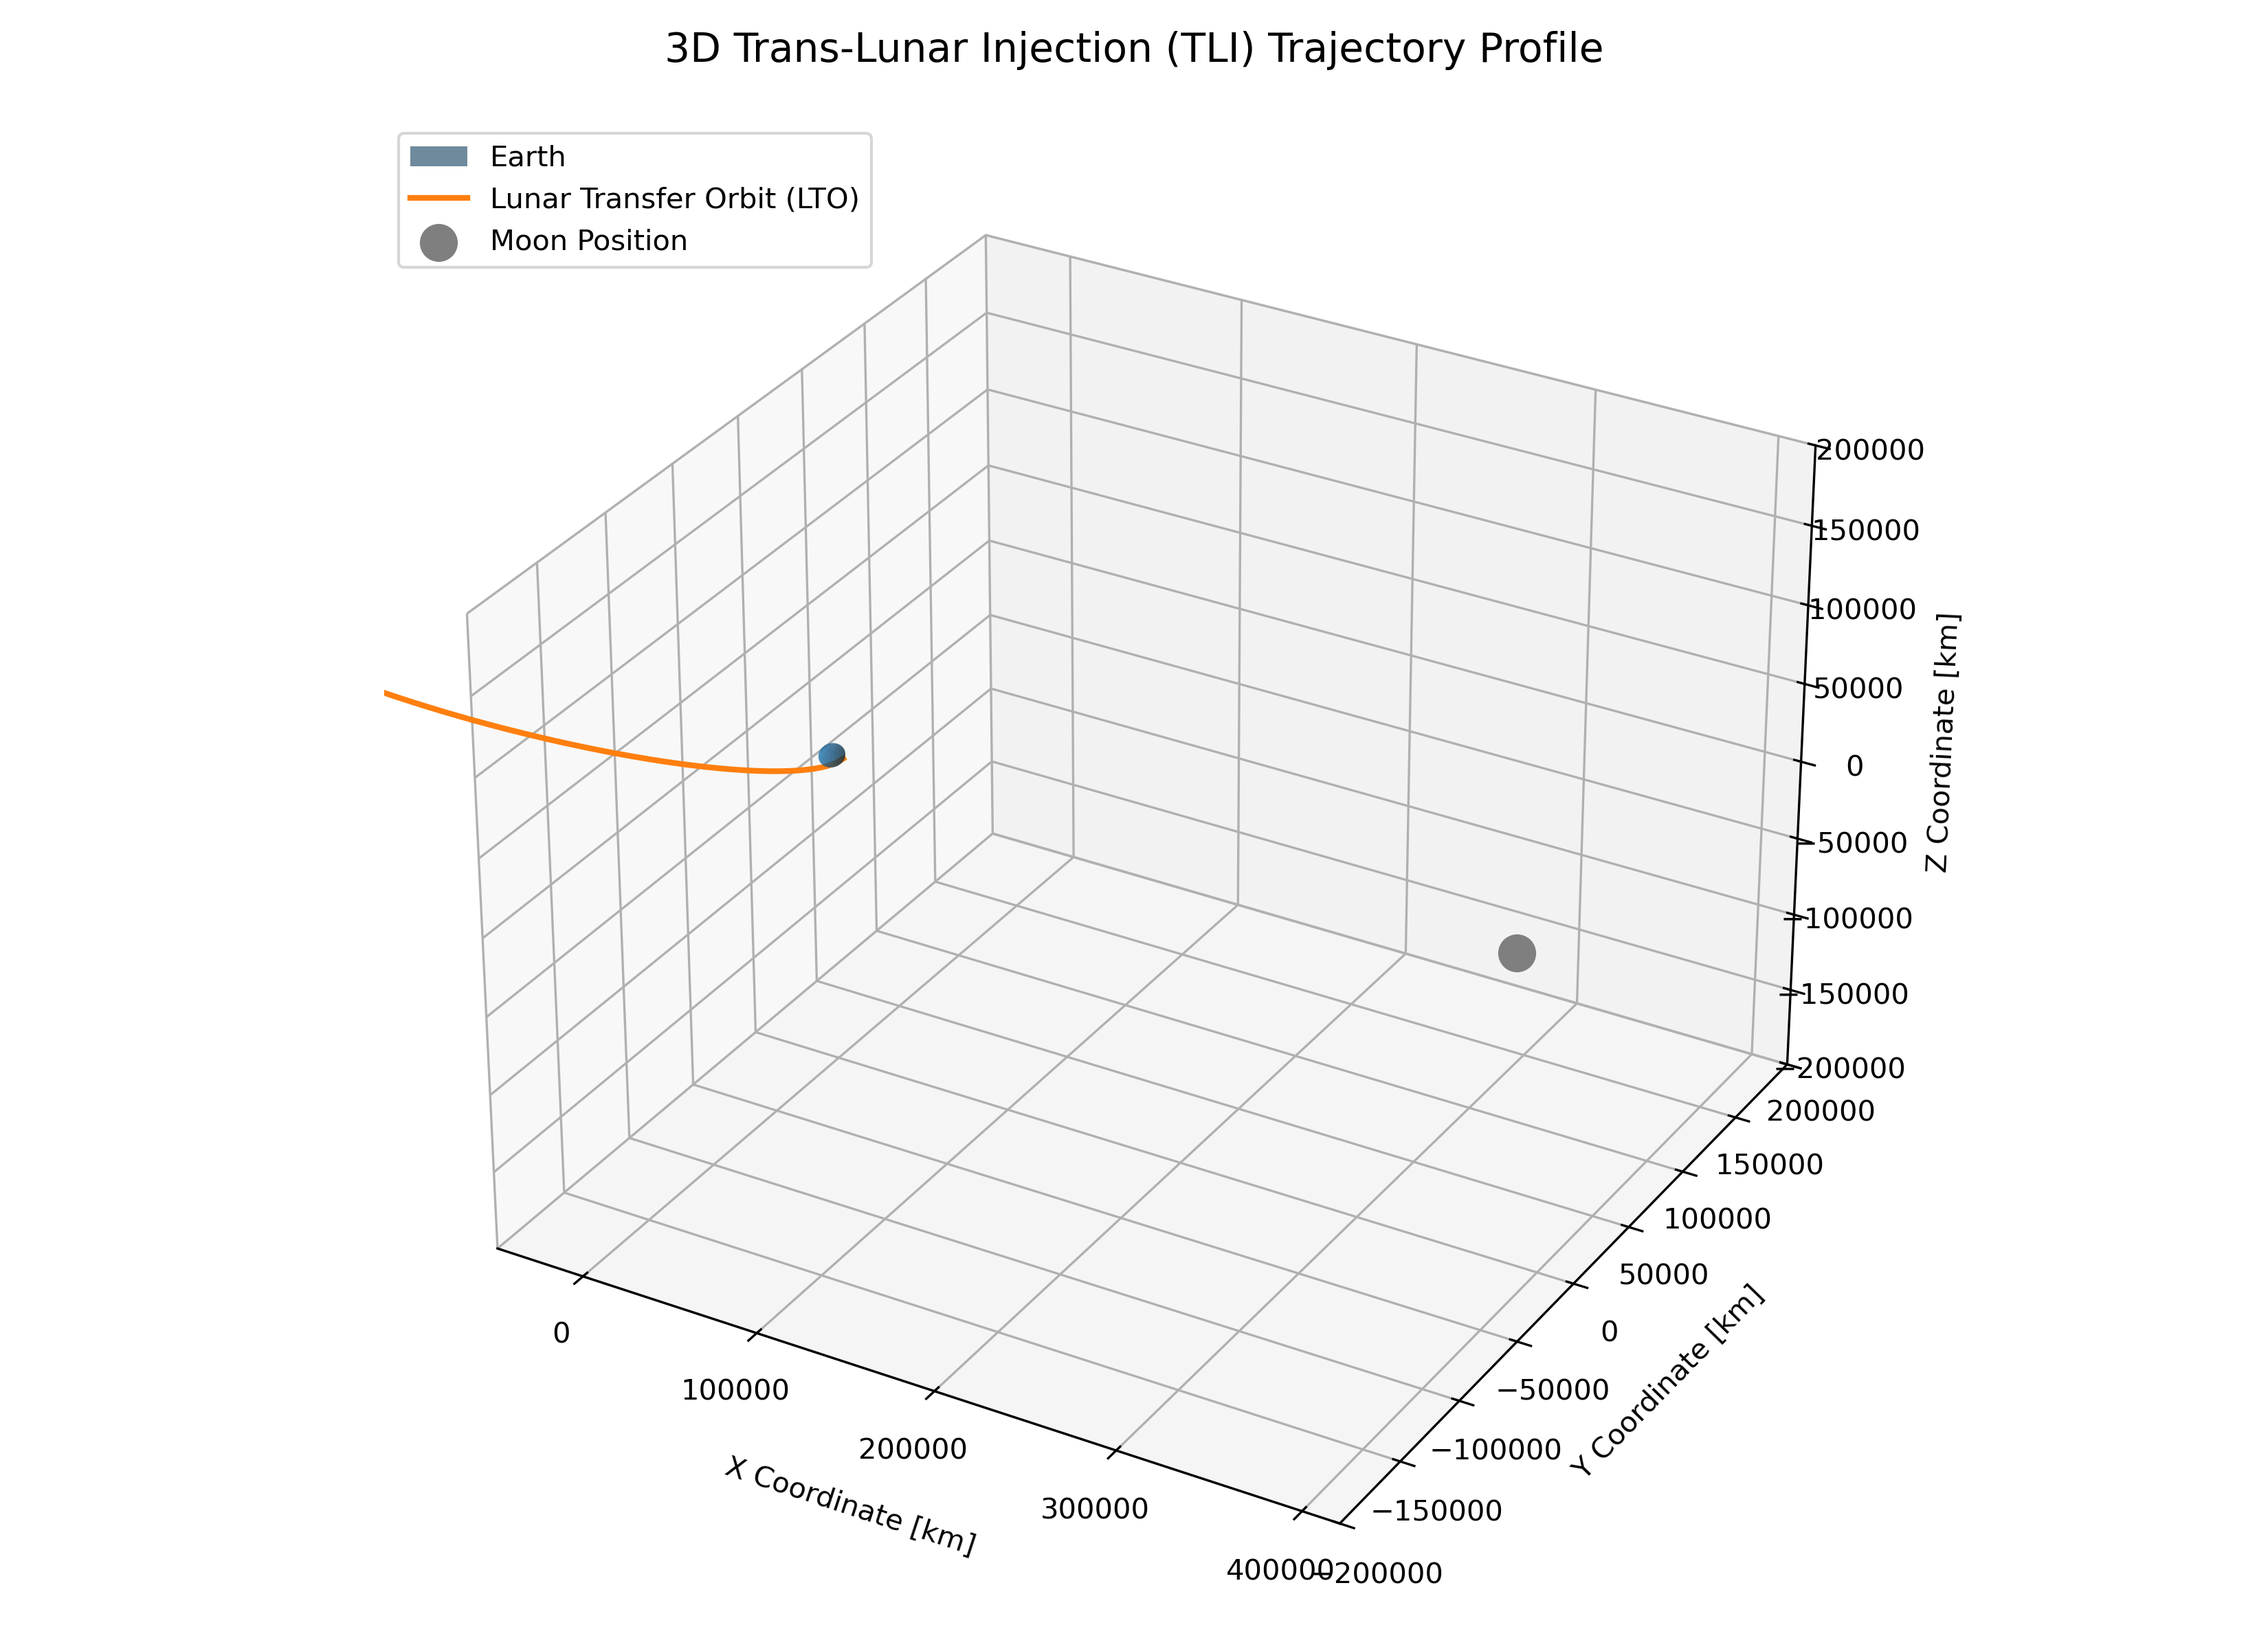
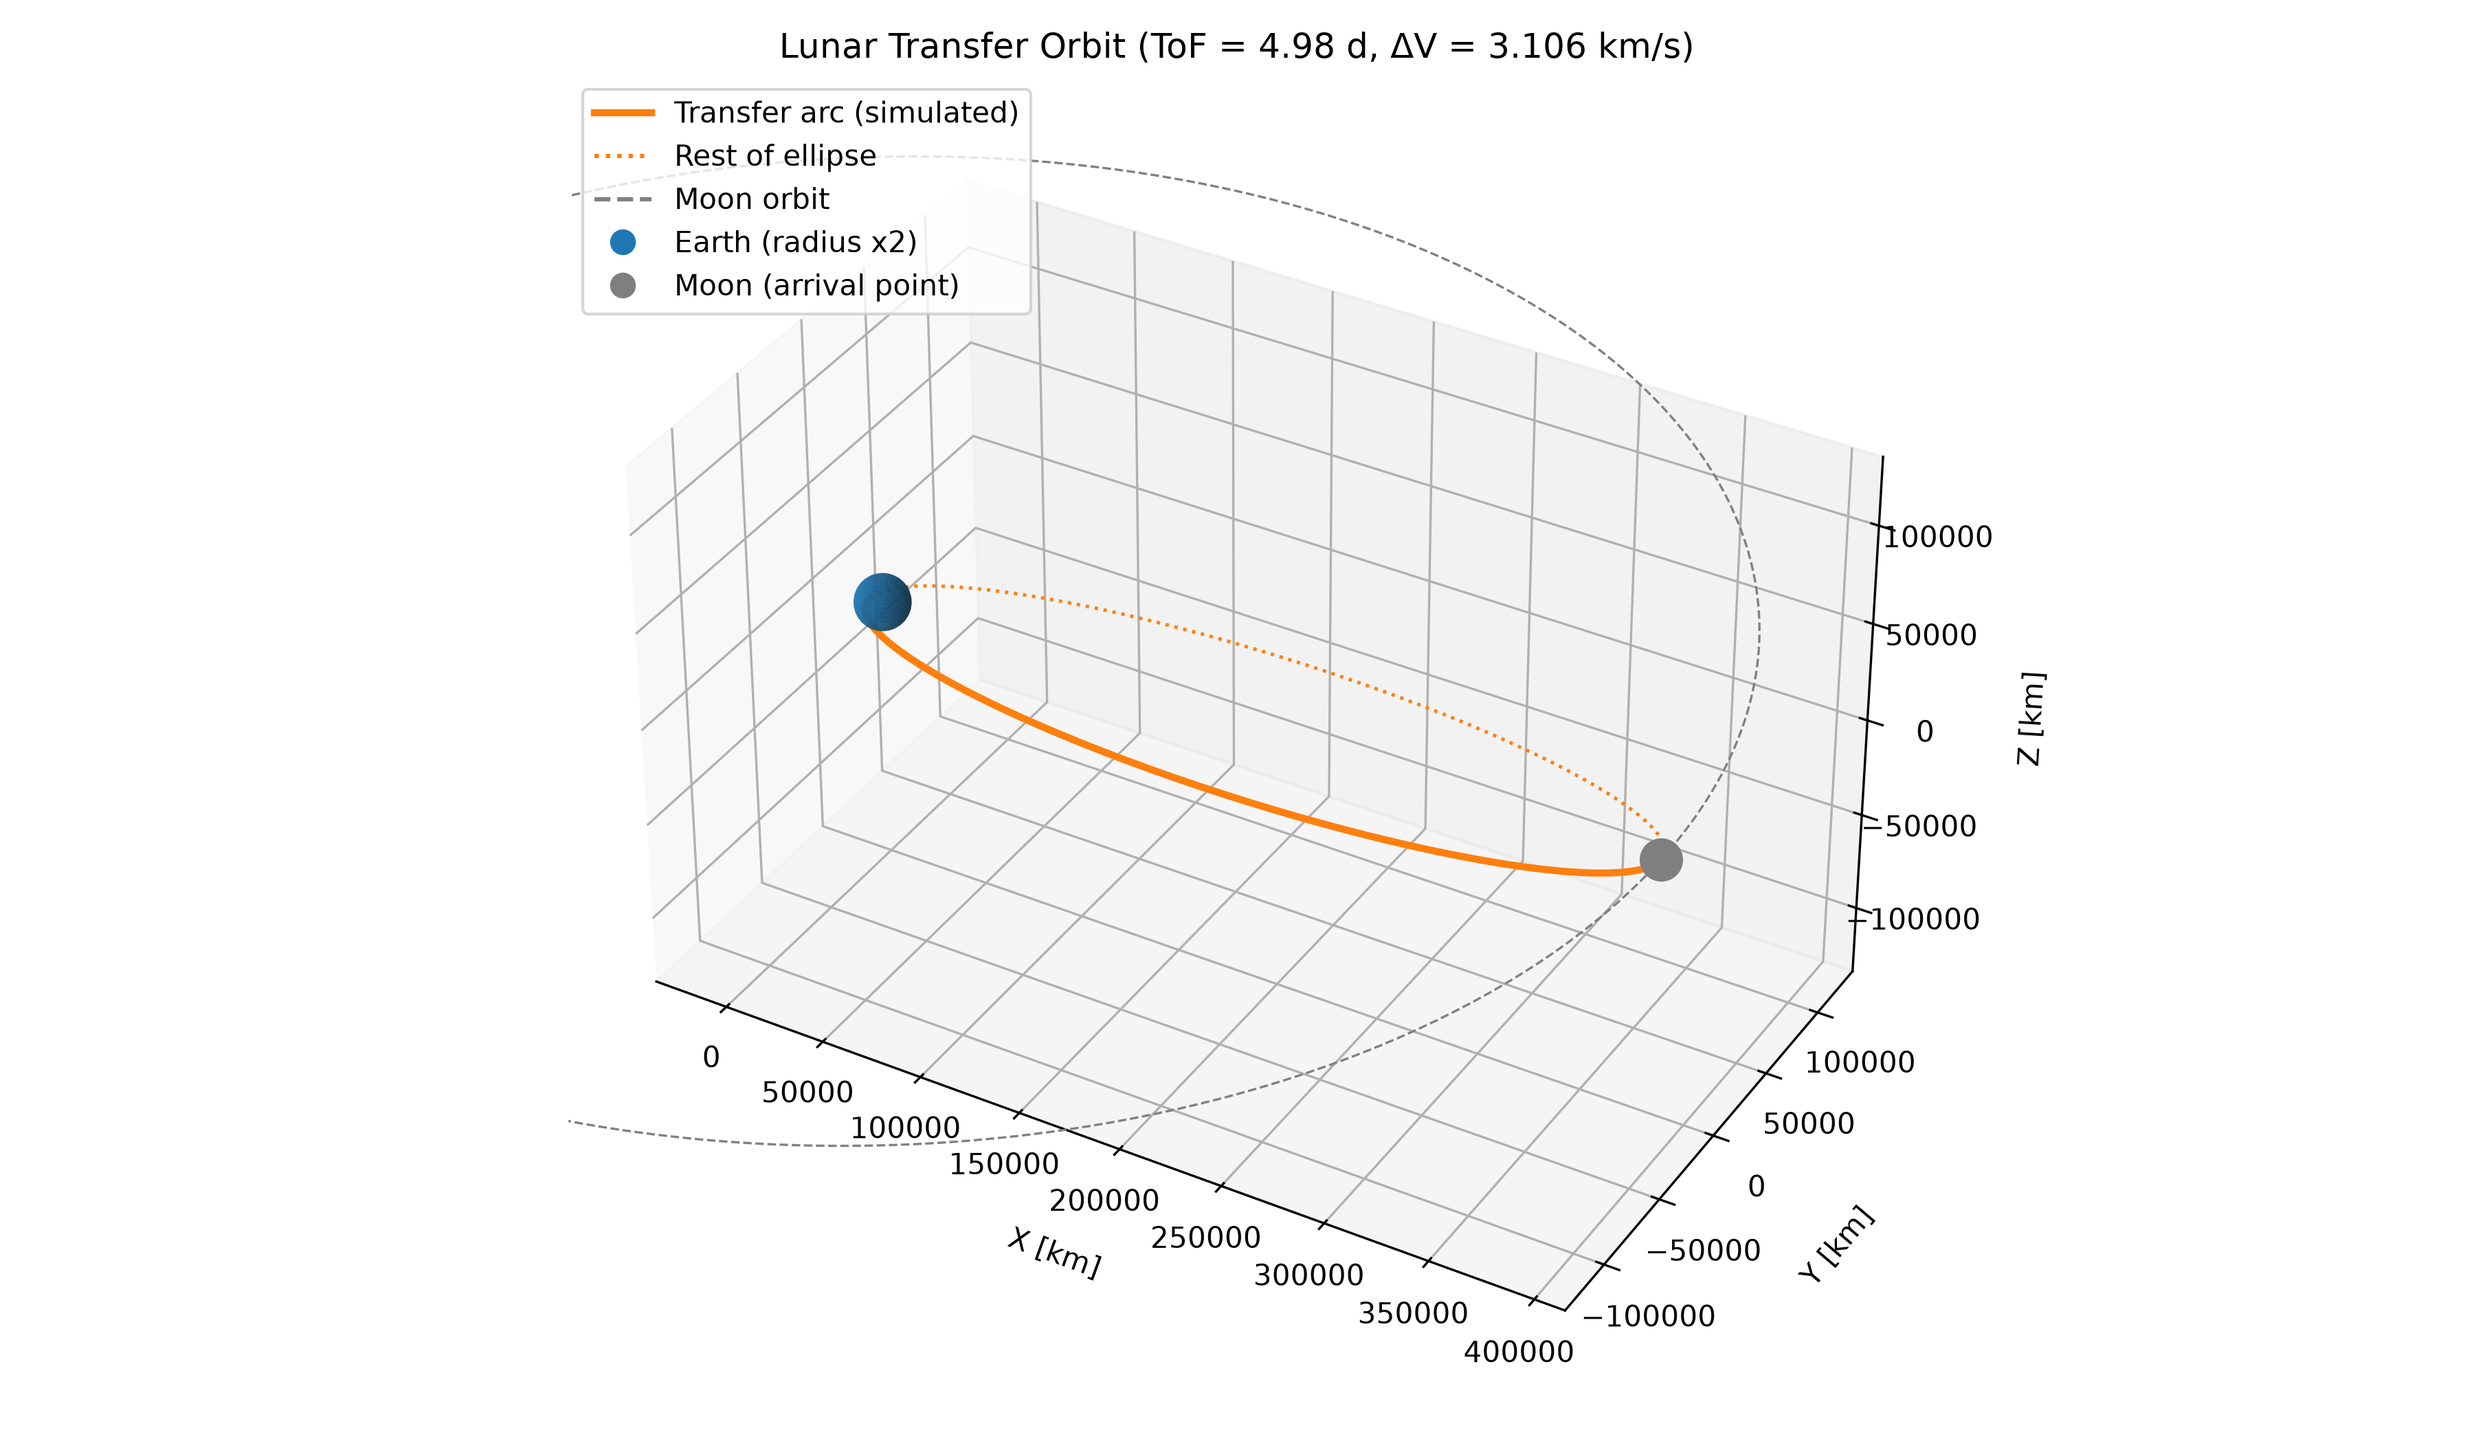
..

diff --git a/src/Orbit analysis/Lunar_transfer/plot_lto.py b/src/Orbit analysis/Lunar_transfer/plot_lto.py
@@ -1,60 +1,75 @@
 import numpy as np
 import matplotlib.pyplot as plt
-from mpl_toolkits.mplot3d import Axes3D
-from lto_calculator import propagate_lto
+from matplotlib.lines import Line2D
+from lto_calculator import propagate_lto, R_EARTH, R_MOON
 
 
-def plot_lunar_transfer_3d():
-    print("Generating 3D Lunar Transfer Orbit (LTO) visualization...")
+def plot_lunar_transfer_3d(h_park=300.0, earth_scale=4.0, full_ellipse=True):
+    sol, params = propagate_lto(h_park_km=h_park, num_points=5000)
+    x, y, z = sol.y[:3]
+    print(f"End position [km]: {sol.y[:3, -1]}")  # expect x ~ +384,400, y ~ 0
 
-    h_park = 300.0
-    sol, params = propagate_lto(h_park_km=h_park, num_points=1000)
+    r_p, r_a = params["r_park_km"], R_MOON
+    a = params["a_trans_km"]
+    e = (r_a - r_p) / (r_a + r_p)
+    b = a * np.sqrt(1 - e**2)
 
-    r_earth = 6378.137
-    r_moon = 384400.0
+    fig = plt.figure(figsize=(12, 7))
+    ax = fig.add_subplot(111, projection="3d")
 
-    fig = plt.figure(figsize=(11, 8))
-    ax = fig.add_subplot(111, projection='3d')
+    # Earth
+    r_draw = R_EARTH * earth_scale
+    u, v = np.mgrid[0:2 * np.pi:40j, 0:np.pi:20j]
+    ax.plot_surface(r_draw * np.cos(u) * np.sin(v),
+                    r_draw * np.sin(u) * np.sin(v),
+                    r_draw * np.cos(v), color="#1f77b4", alpha=0.8, linewidth=0)
 
-    # 1. Plot Earth at origin (using a wireframe sphere for 3D depth)
-    u = np.linspace(0, 2 * np.pi, 30)
-    v = np.linspace(0, np.pi, 30)
-    x_earth = r_earth * np.outer(np.cos(u), np.sin(v))
-    y_earth = r_earth * np.outer(np.sin(u), np.sin(v))
-    z_earth = r_earth * np.outer(np.ones(np.size(u)), np.cos(v))
-    ax.plot_surface(x_earth, y_earth, z_earth, color='#1f77b4', alpha=0.6, label='Earth')
+    # Moon's orbit (reference circle)
+    th = np.linspace(0, 2 * np.pi, 400)
+    ax.plot(R_MOON * np.cos(th), R_MOON * np.sin(th), 0 * th,
+            "--", color="gray", lw=0.8)
 
-    # 2. Extract trajectory coordinates
-    x = sol.y[0]
-    y = sol.y[1]
-    z = sol.y[2]
+    # Full ellipse (dashed) so the whole orbit shape is visible
+    if full_ellipse:
+        t = np.linspace(0, 2 * np.pi, 600)
+        c = a - r_p  # ellipse centre on the X axis
+        ax.plot(c + a * np.cos(t), b * np.sin(t), 0 * t,
+                ":", color="#ff7f0e", lw=1.2)
 
-    # Plot Transfer Trajectory
-    ax.plot(x, y, z, color='#ff7f0e', linewidth=2.0, label='Lunar Transfer Orbit (LTO)')
+    # Simulated transfer arc and Moon at arrival
+    ax.plot(x, y, z, color="#ff7f0e", lw=2.5)
+    ax.scatter(x[-1], y[-1], z[-1], color="#7f7f7f", s=200, depthshade=False)
 
-    # 3. Plot Moon position at apogee intercept
-    ax.scatter([r_moon], [0.0], [0.0], color='#7f7f7f', s=150, zorder=5, label='Moon Position')
+    # Limits from the data, with equal scaling on all axes
+    pad = 30_000
+    xlim = (-r_p - pad, r_a + pad)
+    ylim = (-R_MOON * 0.35, R_MOON * 0.35)
+    zlim = ylim
+    ax.set_xlim(*xlim); ax.set_ylim(*ylim); ax.set_zlim(*zlim)
+    ax.set_box_aspect([np.ptp(xlim), np.ptp(ylim), np.ptp(zlim)])
+    ax.view_init(elev=35, azim=-60)
 
-    # 4. Axis formatting and labels
-    ax.set_xlabel("X Coordinate [km]", labelpad=10)
-    ax.set_ylabel("Y Coordinate [km]", labelpad=10)
-    ax.set_zlabel("Z Coordinate [km]", labelpad=10)
-    ax.set_title("3D Trans-Lunar Injection (TLI) Trajectory Profile", fontsize=14, pad=20)
+    ax.set_xlabel("X [km]", labelpad=12)
+    ax.set_ylabel("Y [km]", labelpad=12)
+    ax.set_zlabel("Z [km]", labelpad=12)
+    ax.set_title(f"Lunar Transfer Orbit (ToF = {params['tof_days']:.2f} d, "
+                 f"ΔV = {params['delta_v_tli_km_s']:.3f} km/s)")
 
-    # Set symmetric window bounds for proper spatial proportions
-    ax.set_xlim([-50000, 420000])
-    ax.set_ylim([-200000, 200000])
-    ax.set_zlim([-200000, 200000])
+    ax.legend(handles=[
+        Line2D([0], [0], color="#ff7f0e", lw=2.5, label="Transfer arc (simulated)"),
+        Line2D([0], [0], color="#ff7f0e", ls=":", label="Rest of ellipse"),
+        Line2D([0], [0], color="gray", ls="--", label="Moon orbit"),
+        Line2D([0], [0], marker="o", color="w", markerfacecolor="#1f77b4",
+               markersize=10, label=f"Earth (radius x{earth_scale:g})"),
+        Line2D([0], [0], marker="o", color="w", markerfacecolor="#7f7f7f",
+               markersize=10, label="Moon (arrival point)"),
+    ], loc="upper left")
 
-    ax.legend(loc='upper left', frameon=True)
     plt.tight_layout()
-
-    output_filename = 'lto_trajectory_3d_plot.png'
-    plt.savefig(output_filename, dpi=300)
-    print(f"3D Lunar transfer plot saved successfully as '{output_filename}'!")
-
+    plt.savefig("lto_trajectory_3d_plot.png", dpi=300)
     plt.show()
 
 
 if __name__ == "__main__":
-    plot_lunar_transfer_3d()
+    plot_lunar_transfer_3d(earth_scale=2.0)
+

diff --git a/src/Orbit analysis/Lunar_transfer/lto_calculator.py b/src/Orbit analysis/Lunar_transfer/lto_calculator.py
@@ -74,7 +74,7 @@ def propagate_lto(h_park_km=300.0, num_points=1000):
 
     # Initial state vector at perigee: start on +X, velocity pointing along -Y
     # so the ellipse sweeps across the positive X domain toward the Moon at +384,400 km
-    r0 = np.array([r_park, 0.0, 0.0])
+    r0 = np.array([-r_park, 0.0, 0.0])
     v0 = np.array([0.0, -v_perigee, 0.0])
     initial_state = np.concatenate((r0, v0))
 

diff --git a/src/Basic concepts/constellations/test_geometry.py b/src/Basic concepts/constellations/test_geometry.py
@@ -1,11 +1,10 @@
 import numpy as np
-import numpy as np
 import sys
 import os
 
 # Add the project root 'src' directory to the Python path dynamically
 current_dir = os.path.dirname(os.path.abspath(__file__))
-src_dir = os.path.abspath(os.path.join(current_dir, '..'))
+src_dir = os.path.abspath(os.path.join(current_dir, '../..'))
 if src_dir not in sys.path:
     sys.path.append(src_dir)
 

diff --git a/src/Basic concepts/constellations/plot_ground_track.py b/src/Basic concepts/constellations/plot_ground_track.py
@@ -5,7 +5,7 @@ import os
 
 # Add parent path to import propagation and geometry modules
 current_dir = os.path.dirname(os.path.abspath(__file__))
-src_dir = os.path.abspath(os.path.join(current_dir, '..'))
+src_dir = os.path.abspath(os.path.join(current_dir, '../..'))
 if src_dir not in sys.path:
     sys.path.append(src_dir)
 

diff --git a/src/Basic concepts/communication/test_link_budget.py b/src/Basic concepts/communication/test_link_budget.py
@@ -4,7 +4,7 @@ import os
 
 # Set up paths to import sibling packages
 current_dir = os.path.dirname(os.path.abspath(__file__))
-src_dir = os.path.abspath(os.path.join(current_dir, '..'))
+src_dir = os.path.abspath(os.path.join(current_dir, '../..'))
 if src_dir not in sys.path:
     sys.path.append(src_dir)
 
